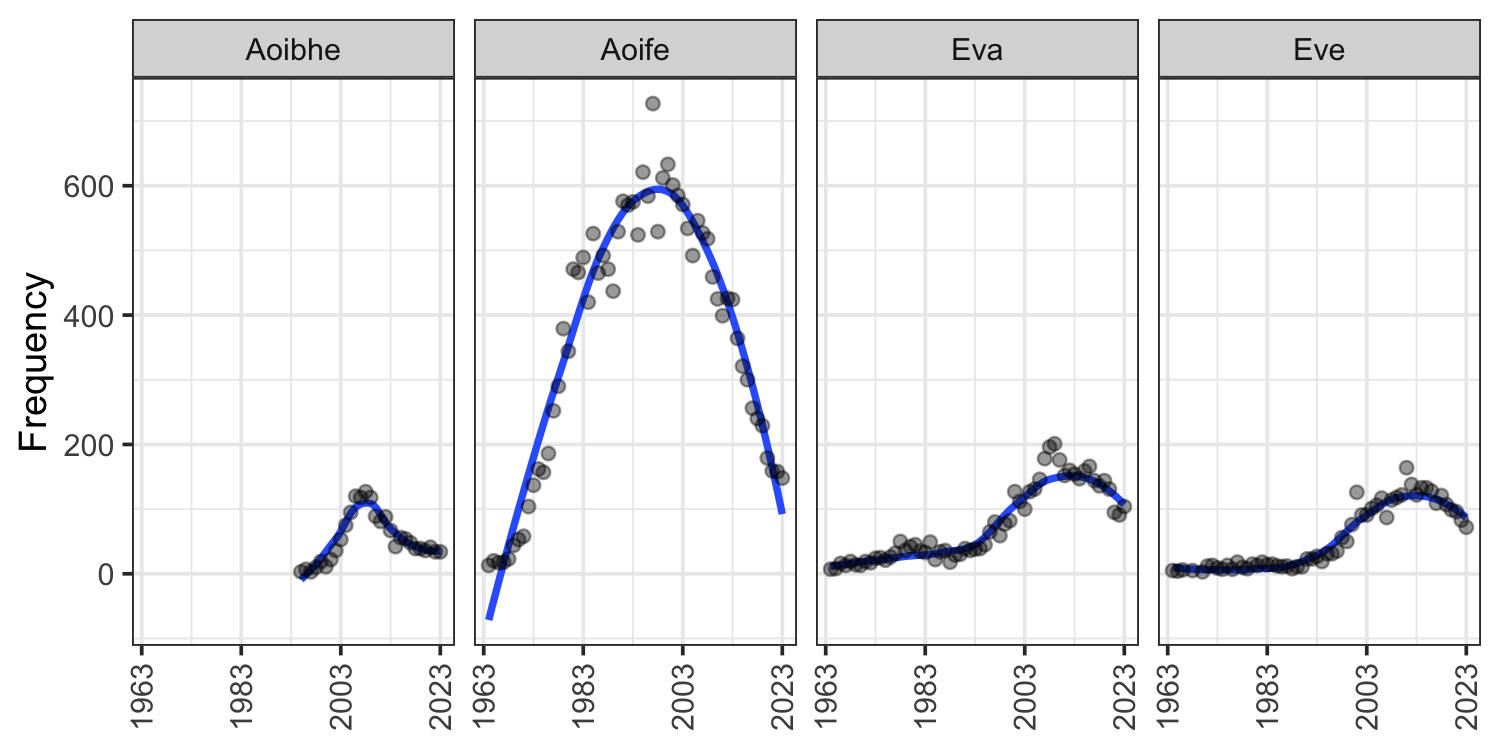
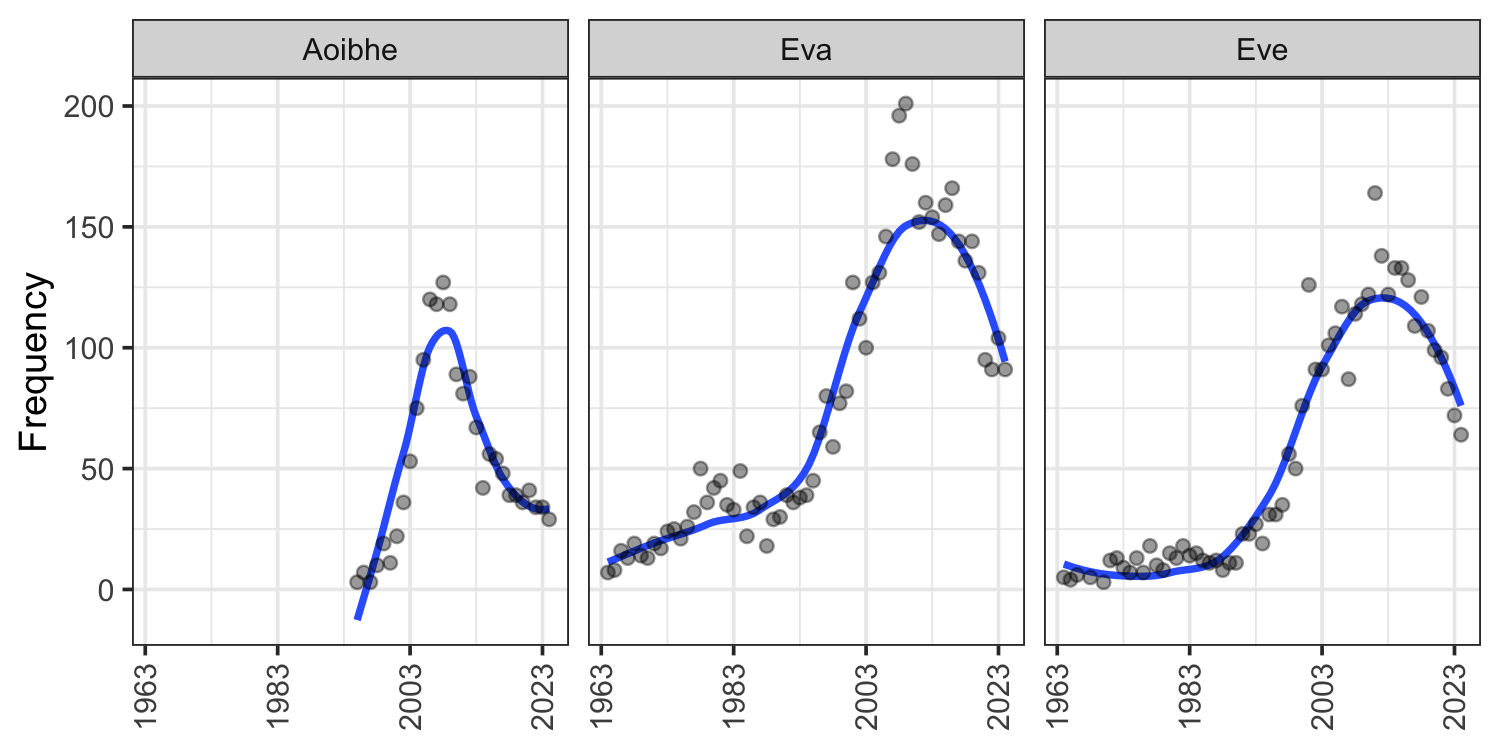
Update README

diff --git a/README.md b/README.md
@@ -3,11 +3,11 @@
 
 ## Description
 
-Full baby name data (1964–2023) for Ireland, gathered from the [Central
+Full baby name data (1964–2024) for Ireland, gathered from the [Central
 Statistics
 Office](https://www.cso.ie/en/interactivezone/visualisationtools/babynamesofireland/).
 
-The package contains the dataset `iebabynames` with 78,897 observations
+The package contains the dataset `iebabynames` with 81,060 observations
 on six variables: `year`, `sex`, `name`, `n`, `rank`, and `prop`, and
 `prop_sex`. Due to confidentiality reasons, only names with 3 or more
 instances in the relevant year are included.
@@ -49,55 +49,55 @@ theme_set(theme_bw())
 
 head(iebabynames)
 ##   year    sex   name   n rank        prop   prop_sex
-## 1 2023 Female  Grace 339    1 0.007325137 0.01533728
-## 2 2023 Female  Fiadh 300    2 0.006482422 0.01357282
-## 3 2023 Female  Emily 297    3 0.006417598 0.01343709
-## 4 2023 Female Sophie 283    4 0.006115085 0.01280369
-## 5 2023 Female   Lily 270    5 0.005834180 0.01221554
-## 6 2023 Female  Ellie 252    6 0.005445234 0.01140117
+## 1 2024 Female Sophie 294    1 0.006455863 0.01359726
+## 2 2024 Female  Éabha 293    2 0.006433904 0.01355101
+## 3 2024 Female  Grace 291    3 0.006389987 0.01345851
+## 4 2024 Female  Emily 290    4 0.006368028 0.01341227
+## 5 2024 Female  Fiadh 286    5 0.006280193 0.01322727
+## 6 2024 Female   Lily 253    6 0.005555556 0.01170105
 ```
 
-### Get most popular names in 2023
+### Get most popular names in 2024
 
 ``` r
-dat_top_2023 <- iebabynames %>% 
-    filter(year == "2023") %>% 
-    group_by(sex) %>% 
+dat_top_2024 <- iebabynames |> 
+    filter(year == "2024") |> 
+    group_by(sex) |> 
     top_n(n = 10, wt = -rank) # get top 10
 
-dat_top_2023
+dat_top_2024
 ## # A tibble: 20 × 7
 ## # Groups:   sex [2]
 ##     year sex    name        n  rank    prop prop_sex
 ##    <dbl> <chr>  <chr>   <int> <dbl>   <dbl>    <dbl>
-##  1  2023 Female Grace     339     1 0.00733   0.0153
-##  2  2023 Female Fiadh     300     2 0.00648   0.0136
-##  3  2023 Female Emily     297     3 0.00642   0.0134
-##  4  2023 Female Sophie    283     4 0.00612   0.0128
-##  5  2023 Female Lily      270     5 0.00583   0.0122
-##  6  2023 Female Ellie     252     6 0.00545   0.0114
-##  7  2023 Female Mia       242     7 0.00523   0.0109
-##  8  2023 Female Amelia    241     8 0.00521   0.0109
-##  9  2023 Female Éabha     241     8 0.00521   0.0109
-## 10  2023 Female Ella      231    10 0.00499   0.0105
-## 11  2023 Male   Jack      561     1 0.0121    0.0232
-## 12  2023 Male   Noah      473     2 0.0102    0.0196
-## 13  2023 Male   James     369     3 0.00797   0.0153
-## 14  2023 Male   Rían      339     4 0.00733   0.0140
-## 15  2023 Male   Oisín     330     5 0.00713   0.0136
-## 16  2023 Male   Fionn     306     6 0.00661   0.0127
-## 17  2023 Male   Tadhg     301     7 0.00650   0.0125
-## 18  2023 Male   Liam      289     8 0.00624   0.0120
-## 19  2023 Male   Cillian   275     9 0.00594   0.0114
-## 20  2023 Male   Daniel    256    10 0.00553   0.0106
+##  1  2024 Female Sophie    294     1 0.00646  0.0136 
+##  2  2024 Female Éabha     293     2 0.00643  0.0136 
+##  3  2024 Female Grace     291     3 0.00639  0.0135 
+##  4  2024 Female Emily     290     4 0.00637  0.0134 
+##  5  2024 Female Fiadh     286     5 0.00628  0.0132 
+##  6  2024 Female Lily      253     6 0.00556  0.0117 
+##  7  2024 Female Olivia    246     7 0.00540  0.0114 
+##  8  2024 Female Amelia    220     8 0.00483  0.0102 
+##  9  2024 Female Sadie     216     9 0.00474  0.00999
+## 10  2024 Female Mia       213    10 0.00468  0.00985
+## 11  2024 Male   Jack      490     1 0.0108   0.0205 
+## 12  2024 Male   Noah      486     2 0.0107   0.0203 
+## 13  2024 Male   Rían      432     3 0.00949  0.0181 
+## 14  2024 Male   Cillian   352     4 0.00773  0.0147 
+## 15  2024 Male   James     336     5 0.00738  0.0140 
+## 16  2024 Male   Tadhg     318     6 0.00698  0.0133 
+## 17  2024 Male   Fionn     304     7 0.00668  0.0127 
+## 18  2024 Male   Liam      303     8 0.00665  0.0127 
+## 19  2024 Male   Oisín     286     9 0.00628  0.0120 
+## 20  2024 Male   Charlie   258    10 0.00567  0.0108
 ```
 
-### Plotting the 10 most frequent male and female names across the entire period
+### Visualising the 10 most frequent male and female names across the entire period
 
 ``` r
-iebabynames_top <- iebabynames %>% 
-    group_by(sex, name) %>% 
-    summarise(n_total = sum(n)) %>% 
+iebabynames_top <- iebabynames |> 
+    group_by(sex, name) |> 
+    summarise(n_total = sum(n)) |> 
     top_n(n = 10, wt = n_total)
 
 ggplot(iebabynames_top, aes(x = n_total,
@@ -109,7 +109,7 @@ ggplot(iebabynames_top, aes(x = n_total,
               colour = "white") +
     scale_x_continuous(labels = scales::comma_format()) +
     scale_fill_manual(values = c("#83D0F5", "#71B294")) +
-    labs(title = "Frequency of Baby Names in Ireland (1964–2023)", 
+    labs(title = "Frequency of Baby Names in Ireland (1964–2024)", 
          x = "Number of Babies",
          y = NULL) +
     theme(axis.text.y = element_blank(),
@@ -126,7 +126,7 @@ ggplot(iebabynames_top, aes(x = n_total,
 ggplot(data = filter(iebabynames, name %in% c("John", "Mary")),
        aes(x = year, y = prop)) +
     geom_smooth(se = FALSE) +
-    scale_x_continuous(breaks = c(seq(1963, 2023, 10))) +
+    scale_x_continuous(breaks = c(seq(1963, 2024, 10))) +
     scale_y_continuous(labels = scales::percent,
                        breaks = c(seq(0, 0.06, 0.01))) +
     geom_point(alpha = 0.4) +
@@ -139,14 +139,13 @@ ggplot(data = filter(iebabynames, name %in% c("John", "Mary")),
 ### Explore different variants of names
 
 ``` r
-iebabynames_variants <- iebabynames %>% 
-    filter(name %in% c("Aoife", "Aoibhe", "Eva",
-                       "Eve"))
+iebabynames_variants <- iebabynames |> 
+    filter(name %in% c("Aoibhe", "Eva", "Eve"))
 
 ggplot(data = iebabynames_variants,
        aes(x = year, y = n)) +
     geom_smooth(se = FALSE) +
-    scale_x_continuous(breaks = c(seq(1963, 2023, 20))) +
+    scale_x_continuous(breaks = c(seq(1963, 2024, 20))) +
     geom_point(alpha = 0.4) +
     facet_wrap(~name, nrow = 1) +
     labs(x = NULL, y = "Frequency") +
@@ -162,8 +161,8 @@ and rank of custom names.
 
 ## How to cite
 
-Stefan Müller (2024). *iebabynames: Ireland Baby Names, 1964–2023*. R
-package version 0.2.4. URL:
+Stefan Müller (2025). *iebabynames: Ireland Baby Names, 1964–2024*. R
+package version 0.2.5. URL:
 <http://github.com/stefan-mueller/iebabynames>.
 
 If you use the data, please also cite the CSO website:
